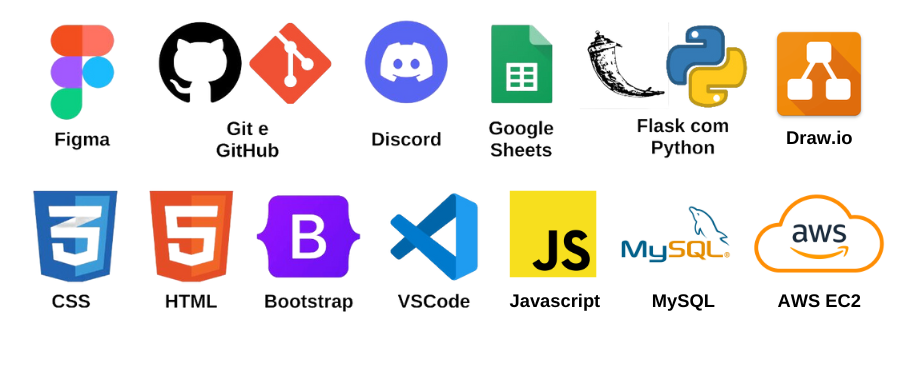
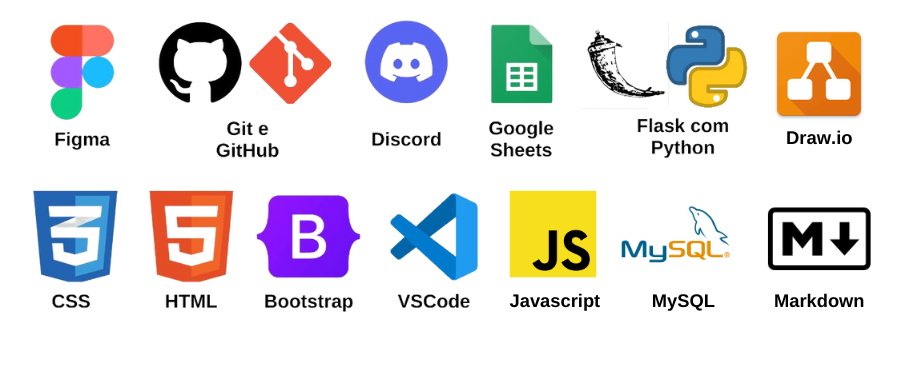
Add markdown to docs

Changed region(s): [[0.84, 0.4908, 0.9956, 0.7218], [0.84, 0.7507, 0.9644, 0.8084]]

diff --git a/README.md b/README.md
@@ -152,8 +152,8 @@ Soft skills desenvolvidas
 - Flask com Python
 - Git e GitHub
 - Draw.io
+- Markdown
 - MySQL
-- AWS EC2
 
 ## Veja Também
 
